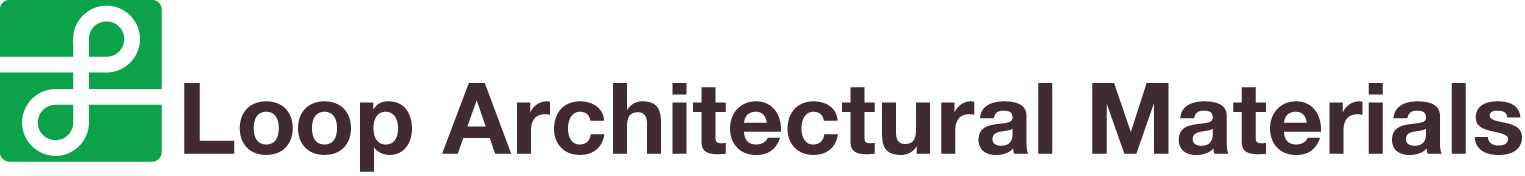
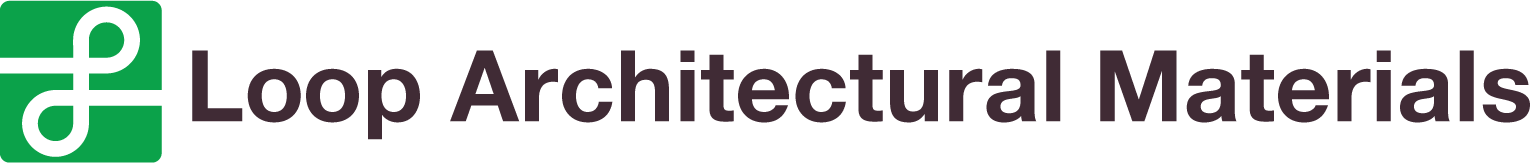
Small tewaks to navigation.

diff --git a/src/components/navigation.js b/src/components/navigation.js
@@ -42,7 +42,7 @@ class Navigation extends React.Component {
             <div className="navbar-end">
               <div className="navbar-item has-dropdown is-hoverable">
                 <Link to="/manufacturers/" className="navbar-link">
-                  Manufacturers
+                  Our Manufacturers
                 </Link>
                 <div
                   id="ManufacturersDropdown"

diff --git a/src/layouts/base.scss b/src/layouts/base.scss
@@ -16,6 +16,11 @@ $link:              $primary;
 
 @import '~bulma/bulma.sass';
 
+::selection {
+  background: $primary;
+  color: $white;
+}
+
 // Carousel Overrides (for react-slick)
 $slick-font-path: "~slick-carousel/slick/fonts/" !default;
 $slick-loader-path: "~slick-carousel/slick/" !default;

diff --git a/src/layouts/index.js b/src/layouts/index.js
@@ -51,7 +51,7 @@ export const pageQuery = graphql`
     }
     siteLogo: file(relativePath: { eq: "loop-signature@4x.png" }) {
       childImageSharp {
-        resolutions(width: 225) {
+        resolutions(width: 220) {
           ...GatsbyImageSharpResolutions_withWebp
         }
       }

diff --git a/src/components/navigation.sass b/src/components/navigation.sass
@@ -8,4 +8,4 @@
       .gatsby-image-outer-wrapper
         margin-top: 0.45rem;
         +mobile
-          margin-left: 0.45rem;
+          // margin-left: 0.45rem;
